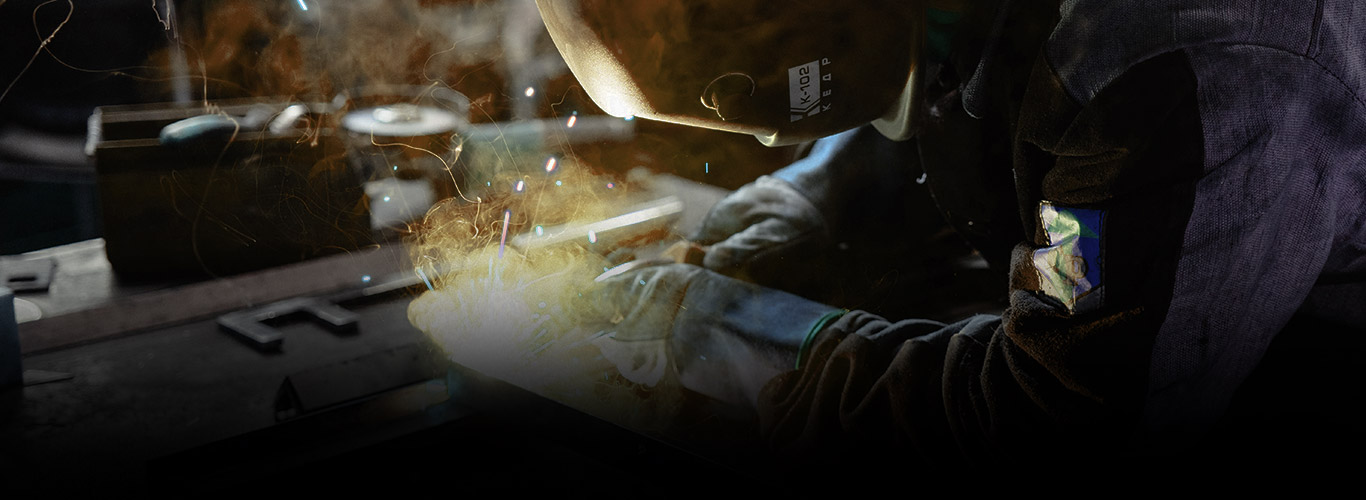
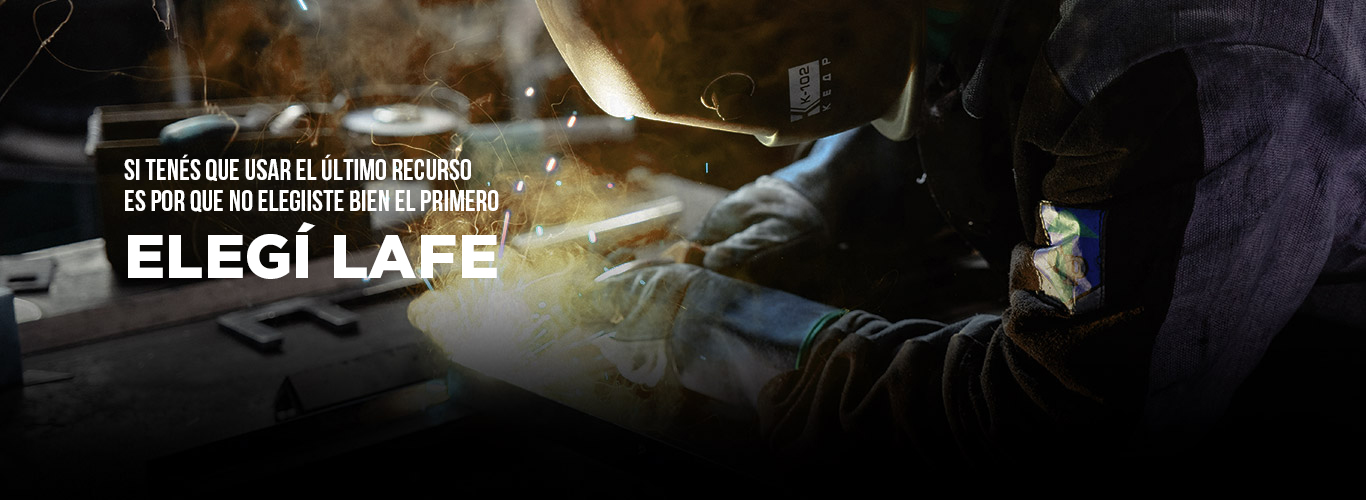
Arreglos de HTML

Changed region(s): [[0.0922, 0.45, 0.369, 0.57], [0.0922, 0.3, 0.369, 0.42]]

diff --git a/site/public/css/styles.css b/site/public/css/styles.css
@@ -37,10 +37,6 @@ body {
 .logo-carrito a, .logo-registrarse a, .burger-menu {
     color: white;
 }
-.hero-img {
-    width: 100%;
-    height: 30%;
-}
 
 .nav-search input {
     width: 110%;
@@ -56,6 +52,54 @@ body {
     margin-bottom: 10px;
 }
 /* BARRA NAVEGADORA Fin*/
+
+/* HERO SLIDER */
+
+.hero {
+    width: 100%;
+    margin: 0px;
+    padding: 0;
+    overflow: hidden;/*oculta exedente de las imagenes del slider*/
+}
+
+.hero ul {
+    display: flex;
+    margin: 0;
+    padding: 0;
+    list-style-type: none;
+    padding-inline-start: 0;
+    margin-block-start: 0;
+    margin-block-end: 0;
+    width: 300%;
+    animation: move-slider 13s infinite;
+    animation-direction:alternate;
+    animation-timing-function: ease;
+}
+
+.hero ul li {
+    margin: 0;
+    padding: 0;
+    width: 100%;
+}
+
+.hero ul li img {
+    margin: 0;
+    padding: 0;
+    width: 100%;
+}
+
+@keyframes move-slider{
+    0% {margin-left: 0;}
+    20% {margin-left: 0;}
+
+    40% {margin-left: -100%;}
+    60% {margin-left: -100%;}
+
+    80% {margin-left: -200%;}
+    100% {margin-left: -200%;}
+}
+
+
 
 /* Seccion de rubros inicio*/
 
@@ -176,7 +220,8 @@ body {
 /* Seccion de SERVICIOS inicio*/
 
 .services {
-    margin-bottom: 10rem;
+   justify-content: center;
+
 
 }
 .services1, .services2, .services3, .services4 {
@@ -223,6 +268,7 @@ body {
     width: 30%;
     height: 3rem;
     text-align: center;
+    margin-top: 7%;
     margin-bottom: 50px;
     background-color: #EB0000;
     border-radius: 25px;
@@ -238,6 +284,7 @@ body {
 
 .productos-nacionales {
     flex-wrap: wrap;
+    justify-content: center;
     width: auto;}
 
 .nacional1{
@@ -328,6 +375,7 @@ body {
 }
 .contacto {
     width: 700px;
+    font-size: 0.9rem;
 }
 a {
     text-decoration: none;
@@ -341,7 +389,7 @@ a {
 }
 
 .Legales {
-    font-size: 11px;
+    font-size: 8px;
     text-align: center;
     margin-top: 40px;
 }
@@ -396,10 +444,33 @@ a {
         display:flex;
         flex-wrap: wrap;
         flex-direction: row;
-        justify-content: center;
+        margin: auto;
     }
     .productos-nacionales {
         display: flex;
         margin: auto;
     }
+}
+
+/* mobile width 375px */
+
+@media (min-width: 375px) {
+    .rubros {
+        margin-bottom: 10rem;
+        display: flex;
+        flex-wrap: wrap;
+        margin-left: 35px;
+}
+.services1, .services2, .services3 {
+    border-right: solid 1px ;
+    border-color: rgb(0, 0, 0);
+}
+.title-ofertas {
+    width: 80%;
+
+}
+
+.productos-nacionales {
+    margin:auto;
+}
 }

diff --git a/site/src/js/userCreateValidation.js b/site/src/js/userCreateValidation.js
@@ -13,7 +13,7 @@ window.addEventListener("load", function () {
         checkInputs();
     });
 
-    function checkInputs() {
+    function checkInputs() { 
         const first_nameValue = first_name.nodeValue.trim();
         const last_nameValue = last_name.value.trim();
         const emailValue = email.value.trim();
